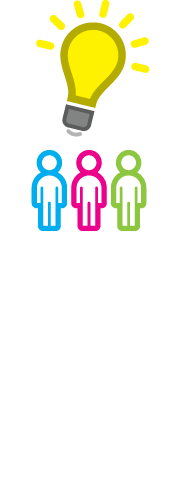
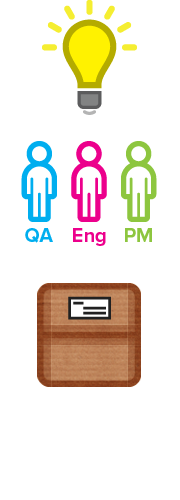
Fleshing out pages, merging shit. The usual.
git-svn-id: svn+ssh://svn.opower.com/opt/svnroot/prototypes/opowerjobs@38983 bb9abed2-0933-0410-ade7-e5b856161268

Changed region(s): [[0.1111, 0.0, 0.8889, 0.51], [0.1944, 0.54, 0.8056, 0.78]]

diff --git a/public/css/defaults.css b/public/css/defaults.css
@@ -61,9 +61,14 @@ H2 {
     padding: 5px;
 }
 
+.content p {
+    margin-bottom: 15px;
+}
+
 .large-text p {
     font-size: 16px;
     line-height: 26px;
+    margin-bottom: 10px;
 }
 
 .shadowed {

diff --git a/public/css/icons.css b/public/css/icons.css
@@ -9,3 +9,4 @@
 
 .icon-lightbulb     { background-position:   0px 0px; }
 .icon-people        { background-position:   0px -140px; }
+.icon-box           { background-position:   0px -280px; }
